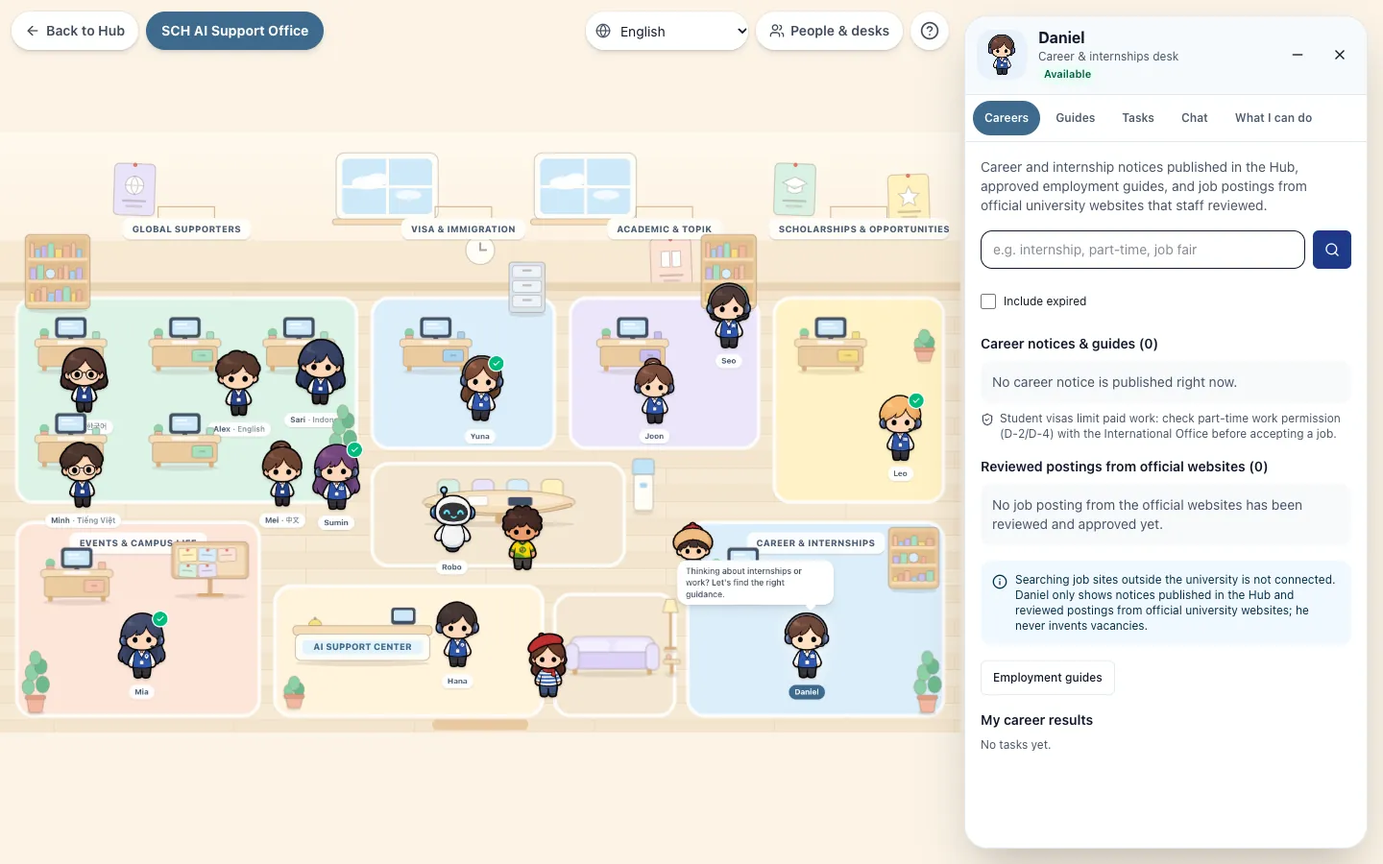
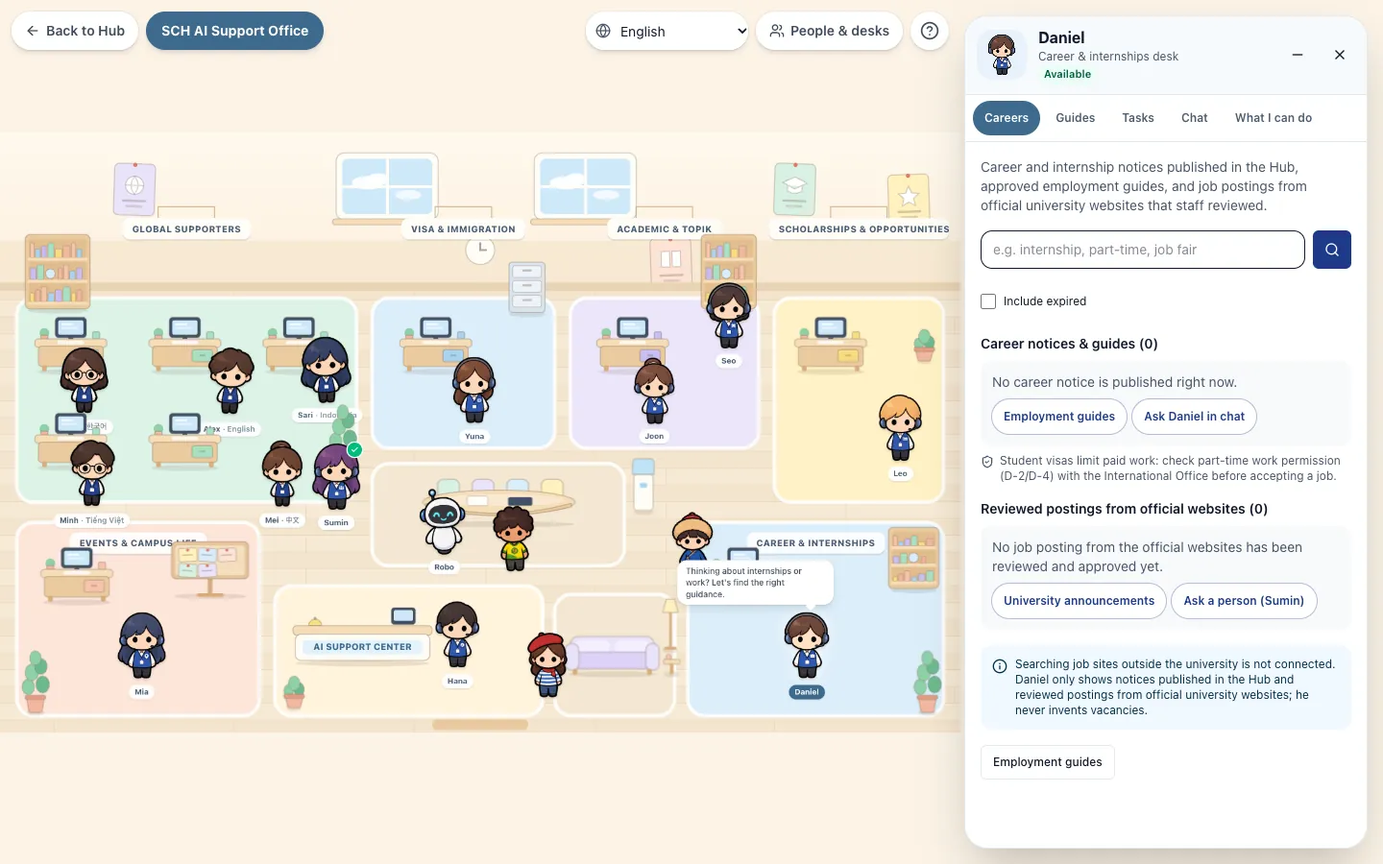
Workspace production assessment, review-queue feedback, model-free guard
- Review queue: a card sent to review or dismissed stays in place with its new status; Refresh reloads the queue
  (the end-to-end run showed the card vanishing with no confirmation).
- Task lists only suggest "use the button above" where a start button exists; Daniel hides an empty results list.
- Backend test: every workspace action (lists, checklists, digests, checks, support requests, monitoring) makes
  no model call, with a control that an explicit summary does reach the model.
- docs/ai-office/production-assessment.md: usefulness by character with KEEP / SIMPLIFY / IMPROVE / DEFER,
  end-to-end workflow results, cost and performance measurements, a monthly cost estimate for 100 / 500 / 2,000
  students with explicit assumptions, remaining limitations and the deployment recommendation.
- Refreshed workspace screenshots.

diff --git a/apps/web/src/features/ai-office/workspace/admin.tsx b/apps/web/src/features/ai-office/workspace/admin.tsx
@@ -42,9 +42,15 @@ function ReviewQueueInner() {
     agentApi.tool(ws.agent.id, "review_candidates", { status, changed_only: changedOnly, limit: 50 }, ws.language));
   const items = data.data?.result.items ?? [];
   return (
-    <ReviewContext.Provider value={{ isAdmin: true, onChanged: () => { data.reload(); ws.onChanged(); } }}>
+    // a reviewed card stays where it is and shows its new status (sent / dismissed); Refresh reloads the queue
+    <ReviewContext.Provider value={{ isAdmin: true, onChanged: ws.onChanged }}>
       <div className="space-y-3" data-testid="review-queue">
-        <p className="text-muted-foreground">{t("intro")}</p>
+        <div className="flex items-start gap-2">
+          <p className="flex-1 text-muted-foreground">{t("intro")}</p>
+          <Button size="sm" variant="outline" className="min-h-9 shrink-0" onClick={data.reload} data-testid="review-refresh">
+            <RotateCcw className="size-3.5" aria-hidden /> {t("refresh")}
+          </Button>
+        </div>
         <FilterChips label={t("filter")} value={status} onChange={setStatus} testId="review-filter"
           options={(["candidate", "imported", "dismissed", "all"] as const).map((id) => ({ id, label: t(`statuses.${id}`) }))} />
         <label className="flex min-h-9 items-center gap-2 text-xs">
@@ -84,7 +90,7 @@ function SourcesAdminInner() {
       <WorkspaceSection title={t("checkNow")}>
         <p className="text-xs text-muted-foreground">{t("checkNowHint")}</p>
         <AgentActionBar ids={checkIds} variant="default" onDone={() => { void reload(); mon.reload(); }} />
-        <AgentTaskList tasks={tasks} types={DISCOVERY_TASKS} limit={1} title={t("latestCheck")}
+        <AgentTaskList startHint tasks={tasks} types={DISCOVERY_TASKS} limit={1} title={t("latestCheck")}
           onChanged={() => { void reload(); ws.onChanged(); mon.reload(); }} />
       </WorkspaceSection>
       <LoadState loading={mon.loading && !mon.data} error={mon.error} onRetry={mon.reload} />

diff --git a/apps/web/src/features/ai-office/workspace/parts.tsx b/apps/web/src/features/ai-office/workspace/parts.tsx
@@ -450,12 +450,16 @@ export function AdminStrip({ children }: { children: React.ReactNode }) {
 
 // ------------------------------------------------------------------ tasks and activity
 /** The viewer's own tasks of this agent (optionally only some task types), newest first. */
-export function AgentTaskList({ tasks, types, onChanged, limit = 3, title }: {
+export function AgentTaskList({ tasks, types, onChanged, limit = 3, title, startHint = false, hideWhenEmpty = false }: {
   tasks: AgentTask[] | null;
   types?: string[];
   onChanged: () => void;
   limit?: number;
   title: string;
+  /** an action button that starts these tasks is shown just above the list */
+  startHint?: boolean;
+  /** no section at all while the student has no such tasks (desks without a start button) */
+  hideWhenEmpty?: boolean;
 }) {
   const ws = useWorkspace();
   const t = useTranslations("office.agent");
@@ -463,10 +467,11 @@ export function AgentTaskList({ tasks, types, onChanged, limit = 3, title }: {
   const nameOf = (id: string) => ws.agents?.find((a) => a.id === id)?.name ?? id;
   if (!ws.signedIn) return null;
   const shown = (tasks ?? []).filter((x) => !types || types.includes(x.task_type)).slice(0, limit);
+  if (hideWhenEmpty && shown.length === 0) return null;
   return (
     <WorkspaceSection title={title} testId="agent-task-list">
       {tasks === null ? <p className="text-xs text-muted-foreground">{t("loading")}</p>
-        : shown.length === 0 ? <p className="text-xs text-muted-foreground" data-testid="no-tasks">{t("noTasks")} {tWs("noTasksHint")}</p> : (
+        : shown.length === 0 ? <p className="text-xs text-muted-foreground" data-testid="no-tasks">{t("noTasks")}{startHint ? ` ${tWs("noTasksHint")}` : ""}</p> : (
           <ul className="space-y-2">
             {shown.map((task) => <li key={task.id}><TaskCard task={task} nameOf={nameOf} onChanged={onChanged} /></li>)}
           </ul>

diff --git a/apps/web/src/features/ai-office/workspace/opportunities.tsx b/apps/web/src/features/ai-office/workspace/opportunities.tsx
@@ -119,7 +119,7 @@ export function OpportunitiesWorkspace() {
         {ws.signedIn ? (
           <AgentActionBar ids={actionIds.filter((id) => !isAdminAction(id))} onDone={() => void reload()} />
         ) : <SignInPrompt text={t("signInForChecks")} />}
-        <AgentTaskList tasks={tasks} types={["scholarship_scan"]} title={t("recentChecks")} onChanged={() => { void reload(); ws.onChanged(); }} />
+        <AgentTaskList startHint tasks={tasks} types={["scholarship_scan"]} title={t("recentChecks")} onChanged={() => { void reload(); ws.onChanged(); }} />
       </WorkspaceSection>
     </div>
   );

diff --git a/apps/web/src/features/ai-office/workspace/events.tsx b/apps/web/src/features/ai-office/workspace/events.tsx
@@ -83,7 +83,7 @@ export function EventsWorkspace() {
         {ws.signedIn ? (
           <>
             <AgentActionBar ids={ws.agent.interface?.task_actions ?? []} onDone={() => void reload()} />
-            <AgentTaskList tasks={tasks} types={["event_digest"]} limit={1} title={t("latestDigest")}
+            <AgentTaskList startHint tasks={tasks} types={["event_digest"]} limit={1} title={t("latestDigest")}
               onChanged={() => { void reload(); ws.onChanged(); }} />
           </>
         ) : <SignInPrompt text={t("signInForDigest")} />}

diff --git a/apps/web/src/features/ai-office/workspace/monitoring.tsx b/apps/web/src/features/ai-office/workspace/monitoring.tsx
@@ -76,7 +76,7 @@ export function MonitoringWorkspace() {
         {ws.signedIn ? (
           <>
             <AgentActionBar ids={actionIds.filter((id) => !isAdminAction(id))} onDone={() => void reload()} />
-            <AgentTaskList tasks={tasks} types={DIGESTS} limit={1} title={t("latestDigest")}
+            <AgentTaskList startHint tasks={tasks} types={DIGESTS} limit={1} title={t("latestDigest")}
               onChanged={() => { void reload(); ws.onChanged(); }} />
           </>
         ) : <SignInPrompt text={t("signInForDigest")} />}

diff --git a/apps/web/src/features/ai-office/workspace/careers.tsx b/apps/web/src/features/ai-office/workspace/careers.tsx
@@ -76,7 +76,7 @@ export function CareersWorkspace() {
 
       <Button variant="outline" size="sm" className="min-h-9" onClick={() => ws.openTab("guides")}>{t("openGuides")}</Button>
 
-      <AgentTaskList tasks={tasks} title={t("myResults")} onChanged={() => { void reload(); ws.onChanged(); }} />
+      <AgentTaskList hideWhenEmpty tasks={tasks} title={t("myResults")} onChanged={() => { void reload(); ws.onChanged(); }} />
     </div>
   );
 }

diff --git a/backend/tests/test_agents.py b/backend/tests/test_agents.py
@@ -490,3 +490,42 @@ def test_finished_tasks_are_purged_after_retention(env):
     env.store.update("agent_tasks", dict(created_at=old), {"id": t["id"]})
     assert env.app.state.services.agents.purge_expired() == 1
     assert env.store.select("agent_tasks")[0] == [] and env.store.select("agent_task_events")[0] == []
+
+
+# ------------------------------------------------------------------ cost guard: workspaces are deterministic
+WORKSPACE_TOOLS = [
+    ("scholarship", "scholarship_search", {"limit": 30}), ("scholarship", "opportunity_search", {"limit": 30}),
+    ("career", "career_opportunity_search", {"limit": 30}), ("career", "opportunity_search", {"kind": "job"}),
+    ("events", "event_search", {}), ("topik", "topik_dates", {}),
+    ("academic", "academic_checklist", {"topic": "registration"}), ("academic", "academic_checklist", {"topic": "leave"}),
+    ("academic", "announcement_search", {"category": "university-announcements", "limit": 6}),
+    ("immigration", "visa_checklist", {"topic": "extension"}), ("announcement", "announcement_search", {"limit": 8}),
+    ("support-coordinator", "get_support_request_status", {}),
+]
+
+
+def test_workspace_actions_never_call_the_model(env):
+    """Opening and using the workspaces (lists, checklists, digests, checks, requests) costs no model call: only the
+    chat and an explicit summary / translation request use the LLM. A model is configured so a call would happen."""
+    publish(env)
+    calls: list[str] = []
+    model = ScriptedLLMProvider(lambda system, prompt: calls.append(system[:40]) or "x")
+    svc = env.app.state.services
+    svc.llm = svc.doc_translations.llm = svc.conversations.llm = svc.discovery.llm = model
+    for agent, name, params in WORKSPACE_TOOLS:
+        r = tool(env, agent, name, params, role="student")
+        assert r.status_code == 200, (agent, name, r.text)
+    for agent, task_type in (("events", "event_digest"), ("announcement", "announcement_digest"),
+                             ("scholarship", "scholarship_scan")):
+        t = task(env, agent, task_type)
+        assert get_task(env, t.json()["id"]).json()["status"] == "completed", task_type
+    t = task(env, "support-coordinator", "support_request", {"subject": "[Housing] Contract", "summary": "Need help."})
+    assert env.client.post(f"/api/v1/agent-tasks/{t.json()['id']}/decision", json={"approve": True},
+                           headers=env.auth("student")).status_code == 200
+    assert env.client.get("/api/v1/agents/announcement/monitoring").status_code == 200
+    assert calls == [], calls
+    # control: an explicit summary request does reach the (counting) model
+    a = publish(env)
+    t = task(env, "announcement", "summarize_announcement", {"ref": a["id"], "language": "en"})
+    assert get_task(env, t.json()["id"]).json()["status"] == "completed"
+    assert calls, "the counting model was not reachable: the guard above would prove nothing"

diff --git a/docs/ai-office/production-assessment.md b/docs/ai-office/production-assessment.md
@@ -1,0 +1,225 @@
+# AI Office workspaces: production assessment (2026-11-24)
+
+Branch `feature/agent-workspaces`, based on release candidate `cb5a6ba`. The workspaces are ready to deploy with
+schedules off, but four desks (Joon, Seo, Daniel and partly Yuna) mostly show empty states until staff publish
+guides and notices for them. The recommendation is in section 6.
+
+**How it was measured.** Real Chrome against the production web build, using the release-candidate API in worker
+mode on a local PostgreSQL + PostgREST scratch database, with synthetic users. Robo's check and the admin review
+used the live SCH sites. All timings are from this local stack. Production adds network latency to Render and
+Supabase, plus the Render free-tier cold start.
+
+## 1. Usefulness by character
+
+Classification codes: **KEEP** works and is worth it; **SIMPLIFY** works but overlaps something else;
+**IMPROVE** the feature is fine but needs data or a fix; **DEFER** not yet; **REMOVE** none proposed. Nothing was
+removed.
+
+| Character | Primary student problem | Expected result | Data source today | Tools | Interactions (measured) | LLM needed? | Cost drivers | Failure conditions | Success criteria |
+|---|---|---|---|---|---|---|---|---|---|
+| Hana | "Where do I ask about X?" / general question | Grounded answer with sources, or the right desk | Approved Hub documents (RAG) | chat, delegation, desk directory | 1 click + question | **Yes** (answer) | 2 Gemini calls, about 6.6k tokens per question | No approved source: says so. Gemini quota/outage: evidence-only reply | Answer cites ≥1 approved source; handoff offered when unsure |
+| 5 language supporters | Same, in one language | Answer in that language | RAG | chat, summaries/translations on request | 1 + question | **Yes** | Same as Hana; summaries are paid calls | Same | Same, in the supporter's language |
+| Yuna | "What are the steps for my visa extension?" | Quoted checklist with links, plus chat | Approved visa guides (2 in the Hub) | `visa_checklist`, chat | 2 | No (checklist); yes (chat) | Embedding query (local CPU) | Thin content: few or no steps | Each step quoted from an approved guide, with a link |
+| Joon | "How do I register for courses / take leave / graduate?" | Quoted procedure | Approved academic-life guides (**none in the Hub**) | `academic_checklist`, notices | 2 | No | Embedding query | No guide: empty state with next steps | ≥1 approved guide per procedure |
+| Seo | "When is the next TOPIK registration?" | Dates quoted from the latest published notice | Published TOPIK announcements (**none**) | `topik_dates` | 1 | No | 1 query | No notice: empty state, official TOPIK site, ask Seo | Latest notice shown with its deadline |
+| Leo | "Which scholarships can I apply for now?" | Approved opportunities, soonest deadline first | Published notices and guides, plus reviewed official-site items | `scholarship_search`, `opportunity_search`, filters | 1 to see, 3 to search | No | 2 queries | Nothing approved; closed items hidden (says so precisely) | 0 unreviewed items shown; every item has a source link |
+| Mia | "What's happening on campus?" | Upcoming dated notices, detail view | Published announcements with dates | announcements API, digest task | 1 to see, 2 to open detail | No | 3 list queries | No dated notices; location only inside the notice text | Upcoming list sorted by date; official link in detail |
+| Daniel | "Are there internships or jobs for me?" | Career notices, reviewed postings, work-permission reminder | Employment guides (**none**); reviewed job postings | `career_opportunity_search`, `opportunity_search(job)` | 1 | No | 2 queries | No published career content (true today until a posting is approved) | Reviewed posting visible after approval (verified, see section 2) |
+| Robo | "Is the information current?" (students); "what's new on official sites?" (admins) | Watched sites, last check, health; admin checks and review | Configured official sources | monitoring status, digest, admin check and review | Student 1; admin check 2 | No | Live fetches (about 40 requests per check), about 90 s of worker time | Site blocked or changed: "needs attention" for students, error text for admins | Last successful check < 24 h; failures alert admins |
+| Sumin | "I need a person to help me" | Request reaches the right language team after explicit confirmation | support tickets | request form, preview, my requests | 6 | No | 1–3 writes | Not signed in: sign-in prompt | Nothing sent before **Confirm**; preview equals what is stored |
+
+Per-capability classification:
+
+| Capability | Class | Why |
+|---|---|---|
+| Grounded chat (Hana, supporters, the chat tabs of service desks) | KEEP | Core value; the only place an LLM is necessary |
+| Desk directory, delegation | KEEP | Deterministic routing, free |
+| Yuna, Joon, Seo checklists and dates | KEEP the code, **IMPROVE the data** | Joon and Seo are empty today: no academic-life guides or TOPIK notices are approved in the Hub. Publish 수강신청, 휴학·복학, 졸업 guides and the TOPIK schedule first |
+| Leo list, filters, verification labels | KEEP | Measured: 0 unreviewed items reach students |
+| Leo "full scholarship check" background task | SIMPLIFY | It searches the same approved content the list already shows; keep it in the Tasks tab only |
+| Mia list and detail | KEEP | |
+| Mia / Robo "what changed" digests | SIMPLIFY | Useful for returning students; could become "new since your last visit" badges instead of a background task |
+| Event location field | IMPROVE | Announcements already have structured `location` evidence in review; show it when confirmed |
+| Daniel notices and reviewed postings | KEEP (+ IMPROVE data) | No employment guides yet |
+| Daniel external job search | DEFER | Not connected on purpose; the UI says so |
+| Robo monitoring status, manual admin check, review queue | KEEP | |
+| Scheduled checks | DEFER | Off. Enable only after approval and after the worker-contention item in section 3 |
+| AI summaries of new discoveries (`summarize_new`) | DEFER | Off. LLM cost with little benefit over the quoted original |
+| Sumin request flow and history | KEEP | |
+| Free-text request box in every Tasks tab | SIMPLIFY | Overlaps the chat for chat-first desks |
+| Chat tab of Sumin | SIMPLIFY | Little value next to the request form |
+
+## 2. End-to-end workflows (actual outcomes)
+
+| # | Workflow | Outcome | Interactions | Time |
+|---|---|---|---|---|
+| 1 | Academic procedure via Joon | No approved academic guide in the Hub: empty state with next steps (ask Joon, ask a person) | 2 | 2.4 s first call (embedding model warm-up 2.2 s), then about 40 ms |
+| 2 | Latest TOPIK announcement via Seo | None published: empty state with official TOPIK site and "ask Seo" | 1 | 87 ms |
+| 3 | Approved scholarships via Leo | 2 approved opportunities, 0 unreviewed; search "장학금" → 2 | 1 (3 with search) | 107 ms |
+| 4 | Upcoming event via Mia | 2 upcoming dated notices; detail opened with the official link | 2 | 538 ms (3 list calls) |
+| 5 | Career guidance via Daniel | Before review: 0 items. After workflow 7: the reviewed G-LAMP internship appears under reviewed postings | 1 | about 100 ms (load test) |
+| 6 | Admin runs Robo's check (live SCH sites) | Completed: 4 sources, 0 new, 1 updated. A student watching the office saw Robo working | 2 | 91 s (polite fetching, 1.5 s between requests) |
+| 7 | Admin reviews and approves discovered items | 2 real notices sent to review from Leo's and Robo's queues; each official page fetched and stored as a pending version in 0.3–0.4 s; approved in the review flow | 3 per item to send; 3 per item to approve in the admin console | Indexing 1.0–1.4 s after approval |
+| 8 | Student sees an item only after publication | Hidden before review and while pending (polled 203 s); visible within seconds after approval, as verified, in Leo and Daniel | 1 | |
+| 9–10 | Support request via Sumin | Ticket count 4 → 4 after preview (nothing sent) → 5 after Confirm; the preview showed exactly the stored subject | 6 | 3.3 s including typing |
+
+Problems found and fixed during these runs:
+- After "Send to review" the card vanished from the queue, so the admin got no confirmation. The card now stays and
+  shows its new status, with a Refresh button.
+- A task-list hint pointed to a start button that Daniel doesn't have.
+
+Environment limitation: the admin review console (`/admin/*`) checks the Supabase session on the server, and the
+local stack has no Supabase Auth. So workflow 7's approve click used the same endpoint the console calls
+(`POST /admin/versions/{id}/approve`); the console's button is covered by its component tests. This must be
+smoke-tested on staging or production.
+
+Also re-run on a fresh database:
+- Phase 4 browser suite: 21/21, after updating one check to the new rule that students only see reviewed items;
+- translation and document-viewer verification: 12/12;
+- workspace desktop and phone suite: 29/29 with no page errors.
+
+## 3. Cost and performance
+
+### What uses what
+
+| Interaction | Gemini | RAG retrieval | Database | Official-site fetching | Background job |
+|---|---|---|---|---|---|
+| Chat question (any chat tab) | 2 calls (query rewrite + streamed answer) | yes (local ONNX e5 embedding + pgvector/keyword) | yes | no | no |
+| Opening any workspace; lists, filters, checklists, TOPIK dates, monitoring status | **0** | checklists only (embedding query, no LLM) | yes | no | no |
+| Digests, scholarship check, support request | **0** | no | yes | no | yes (short, under 0.3 s) |
+| Explicit "summarize" / "translate" request | 1–3 calls | no | yes | no | yes |
+| Admin official-source check | 0 (summaries off) | no | yes | yes, about 40 requests | yes, about 90 s |
+| Send to review / approval | 0 | indexing (local embeddings) | yes | 1 request per item | yes, 0.3–1.4 s |
+| Admin AI translation draft | 1 per chunk | no | yes | no | yes |
+
+A backend test (`test_workspace_actions_never_call_the_model`) enforces the "0 Gemini calls" column for every
+workspace action. It includes a control check that the model was reachable.
+
+### Measurements (local stack)
+
+**Workspace loading**, from the click to the first data:
+- desktop: 25–200 ms;
+- phone with 4× CPU throttling and slow network: 160–490 ms.
+
+**API latency (p50):**
+
+| Call | p50 |
+|---|---|
+| Directory | 11 ms |
+| Monitoring status | 14 ms |
+| Announcements | 12 ms |
+| Tool searches | 31–55 ms |
+| Checklists (RAG) | 40–42 ms; 2.2 s on the first call after a restart (model load) |
+
+**Database:** the workspace queries run in under 1 ms of execution plus about 1 ms of planning, so in production
+latency is dominated by the Render↔Supabase network round trip.
+
+**Agent tasks:**
+- digests, scans and support requests finish in 0.1–0.3 s;
+- a live official-source check takes about 89–91 s.
+
+**Retries:** none across all agent tasks and ingestion jobs. Failed ingestions in the scratch database come from
+integration tests that fail on purpose.
+
+**Worker contention:**
+- One worker runs ingestion, translation and agent tasks. An upload queued during an official-source check waits
+  up to the remaining check time, about 90 s worst case. Phase 4 measured 7.4 s behind an 8.5 s check.
+- Chat and workspaces are not affected.
+- Mitigations: keep checks at night, or check one source per task.
+
+**Resources:**
+- API process: 354 MB (ONNX embedding model loaded). An earlier steady-state measurement was 440 MB.
+- Web server: 98 MB.
+- Scratch database: 47 MB.
+
+**Gemini tokens per chat question**, measured in production on 2026-11-23 (research record): about 6.1k input and
+about 0.5k output over 2 calls. Thinking can add up to about 1k output.
+
+**Production note:** every answer in that smoke test came from the fallback model `gemini-3.5-flash-lite`. The
+primary `gemini-3.6-flash` was failing for the key and needs diagnosis.
+
+### Monthly cost estimate
+
+**Assumptions (explicit):**
+- Usage: 10 chat questions per monthly active student (25 for the heavy case). Workspace use is free of LLM cost.
+  5% of students request one summary a month (about 3.5k tokens). About 40 admin translation drafts a month.
+- Prices (Nov 2026; re-check before budgeting):
+
+  | Item | Price |
+  |---|---|
+  | Gemini 3.5 Flash-Lite | $0.30 / $2.50 per 1M input/output tokens |
+  | Gemini 3.6 Flash | $1.50 / $7.50 (some sources list $0.75 / $3.75 as an introductory rate to 2026-12-31) |
+  | Render Starter (512 MB) | $7 |
+  | Render Standard (2 GB) | $25 |
+  | Supabase Pro | $25 (includes Micro compute and 8 GB of database) |
+
+- Free tiers are not assumed:
+  - Render free instances sleep, which means cold starts, and their hours are limited.
+  - Supabase Free pauses inactive projects.
+  - The Gemini free tier has daily request limits. Check its current terms on whether prompts may be used to improve
+    Google's products, because student questions would be sent.
+
+| Monthly active students | Chat questions | Gemini, Flash-Lite (typical / heavy) | Gemini, 3.6 Flash (typical / heavy) | Hosting | **Total per month** |
+|---|---|---|---|---|---|
+| 100 | 1,000 | $3 / $8 | $13 / $32 | $57 | **about $60–$90** |
+| 500 | 5,000 | $16 / $39 | $65 / $161 | $57 | **about $73–$220** |
+| 2,000 | 20,000 | $62 / $155 | $258 / $645 | $57–$82 * | **about $120–$730** |
+
+Notes on the table:
+- **Per question:** Flash-Lite about $0.0031, 3.6 Flash about $0.013; up to about 1.6× with thinking tokens.
+- **Summaries and admin translation drafts:** under $3 a month at all sizes.
+- **Hosting:** API on Render Standard ($25), because 512 MB leaves no headroom for ingestion, PDF extraction and the
+  worker. Web on Render Starter ($7). Supabase Pro ($25).
+- **\* At 2,000 students,** add a separate worker (Starter $7 to Standard $25) so uploads never wait behind
+  official-site checks.
+- **Biggest lever:** the model choice. Flash-Lite is about 4× cheaper per question than 3.6 Flash. The workspaces
+  themselves add no AI cost.
+
+## 4. Fixes in this hardening round
+
+- **Link extraction.** Site menus are no longer mistaken for application links. Links inside nav, header, footer,
+  menus and banners are skipped; watched pages honour their content selector; and site services like "홍보신청" or
+  login links are never treated as applications. The academic-calendar source uses `div.schedule-board`.
+  - Validated live on all 9 proposed sources: every remaining application link is the notice's own form or
+    attachment.
+- **Admin tabs.** Review and Sources have their own always-visible row on desktop and phone.
+- **Empty states.** Every workspace empty state offers next steps: clear filters, include closed items, past
+  events, guides, ask in chat, or ask a person through Sumin.
+- **Public monitoring status.** It now has an exact key allowlist. The server schedule switch and "enabled but off
+  on the server" are admin-only; students see automatic checks as on or off.
+- **Intermittent integration failures.** All were caused by test isolation on a reused database, not by product
+  bugs:
+  - the daily translation budget ran out after repeated runs;
+  - documents with identical text tied in search ranking;
+  - the seed announcement was pushed off the first page;
+  - tests checked or left behind real official sources.
+
+  Afterwards the suite passed 20 of 20 repeated runs, with and without a competing worker.
+
+## 5. Remaining limitations
+
+1. **Content gaps.** Academic, TOPIK and employment content is missing from the Hub, so Joon, Seo and Daniel mostly
+   show (helpful) empty states until staff publish guides or notices.
+2. **Admin console approval click** is not exercised in a real browser locally (needs Supabase Auth); smoke-test it
+   after deployment.
+3. **Single worker.** Official-source checks can delay uploads by up to about 90 s. Schedules are off; run checks at
+   night.
+4. **Events** have no structured location in the workspace (it's inside the notice text).
+5. **Support topic** is stored as a subject prefix (no category column, by design: no new tables).
+6. **Primary Gemini model** fails in production (fallback answers). Diagnose this before relying on the cost
+   figures for 3.6 Flash.
+7. **Render free tier.** Production ran on free 512 MB instances as of 2026-11-22: cold starts and little memory
+   headroom.
+8. **Prices** above are from third-party summaries of Nov 2026 rates and the providers' pages. Confirm them on
+   ai.google.dev, render.com/pricing and supabase.com/pricing.
+
+## 6. Deployment readiness
+
+**Recommendation: ready for a staged deployment of the workspaces together with the release candidate**, using the
+Phase 4 checklist (backup, migrations 0013–0015, merge, smoke test). Schedules stay off and no paid service is
+turned on automatically. Before promoting the office to students:
+
+1. publish the missing academic, TOPIK and employment guides/notices;
+2. fix the primary Gemini model, or deliberately pin Flash-Lite;
+3. move the API to a 2 GB instance before running official-source checks regularly;
+4. smoke-test the admin review approval and one live Robo check on production.

diff --git a/docs/ai-office/workspaces.md b/docs/ai-office/workspaces.md
@@ -142,11 +142,28 @@ They live in `workspace/parts.tsx`:
   `DeadlineDisplay`, which uses Korean dates.
 - **Actions and gates:** `AgentActionBar`, `AgentPermissionGate`, `AdminStrip`.
 
+## Empty states and admin tabs
+
+- **Empty states.** Every empty workspace list says why it is empty and offers next steps, for example:
+  - clear the filters or include closed items;
+  - show past events;
+  - open guides or ask this desk in chat;
+  - ask a person through Sumin;
+  - open the official TOPIK site.
+- **Admin tabs.** Admins see Review and Sources in a separate, always-visible "Admin" row.
+- **Review queue.** A card that was just sent to review or dismissed stays in place and shows its new status;
+  Refresh reloads the queue.
+
 ## Mobile and desktop
 
 - **Desktop:** the existing right-hand panel, with the office visible and clickable.
 - **Phones:** a full-screen workspace with a back button. Lists scroll, and controls are at least
   36 px high.
+
+## Production assessment
+
+See [production-assessment.md](production-assessment.md): usefulness by character, end-to-end results, cost and
+performance, limitations and readiness.
 
 ## Screenshots
 
